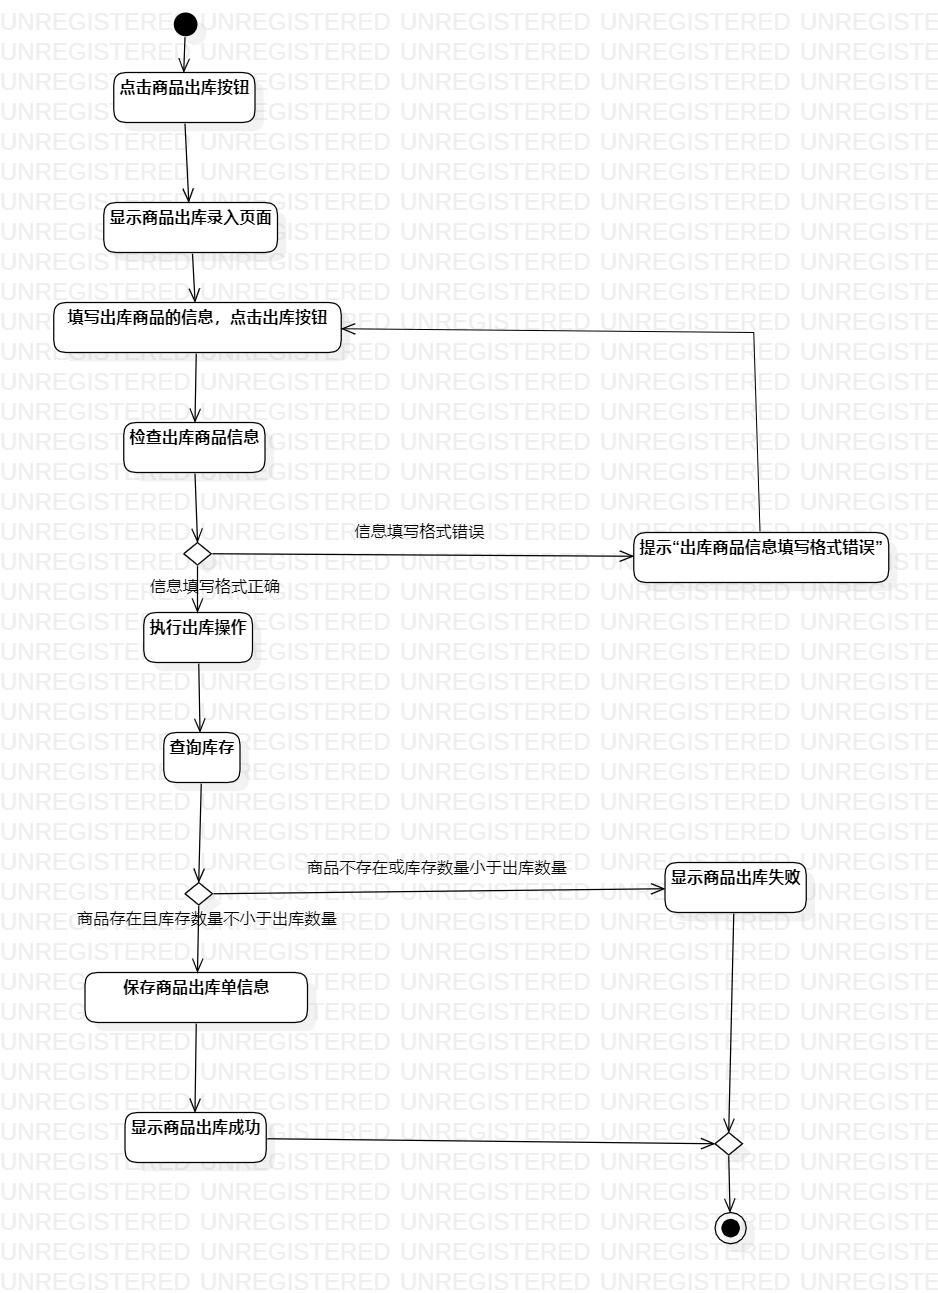
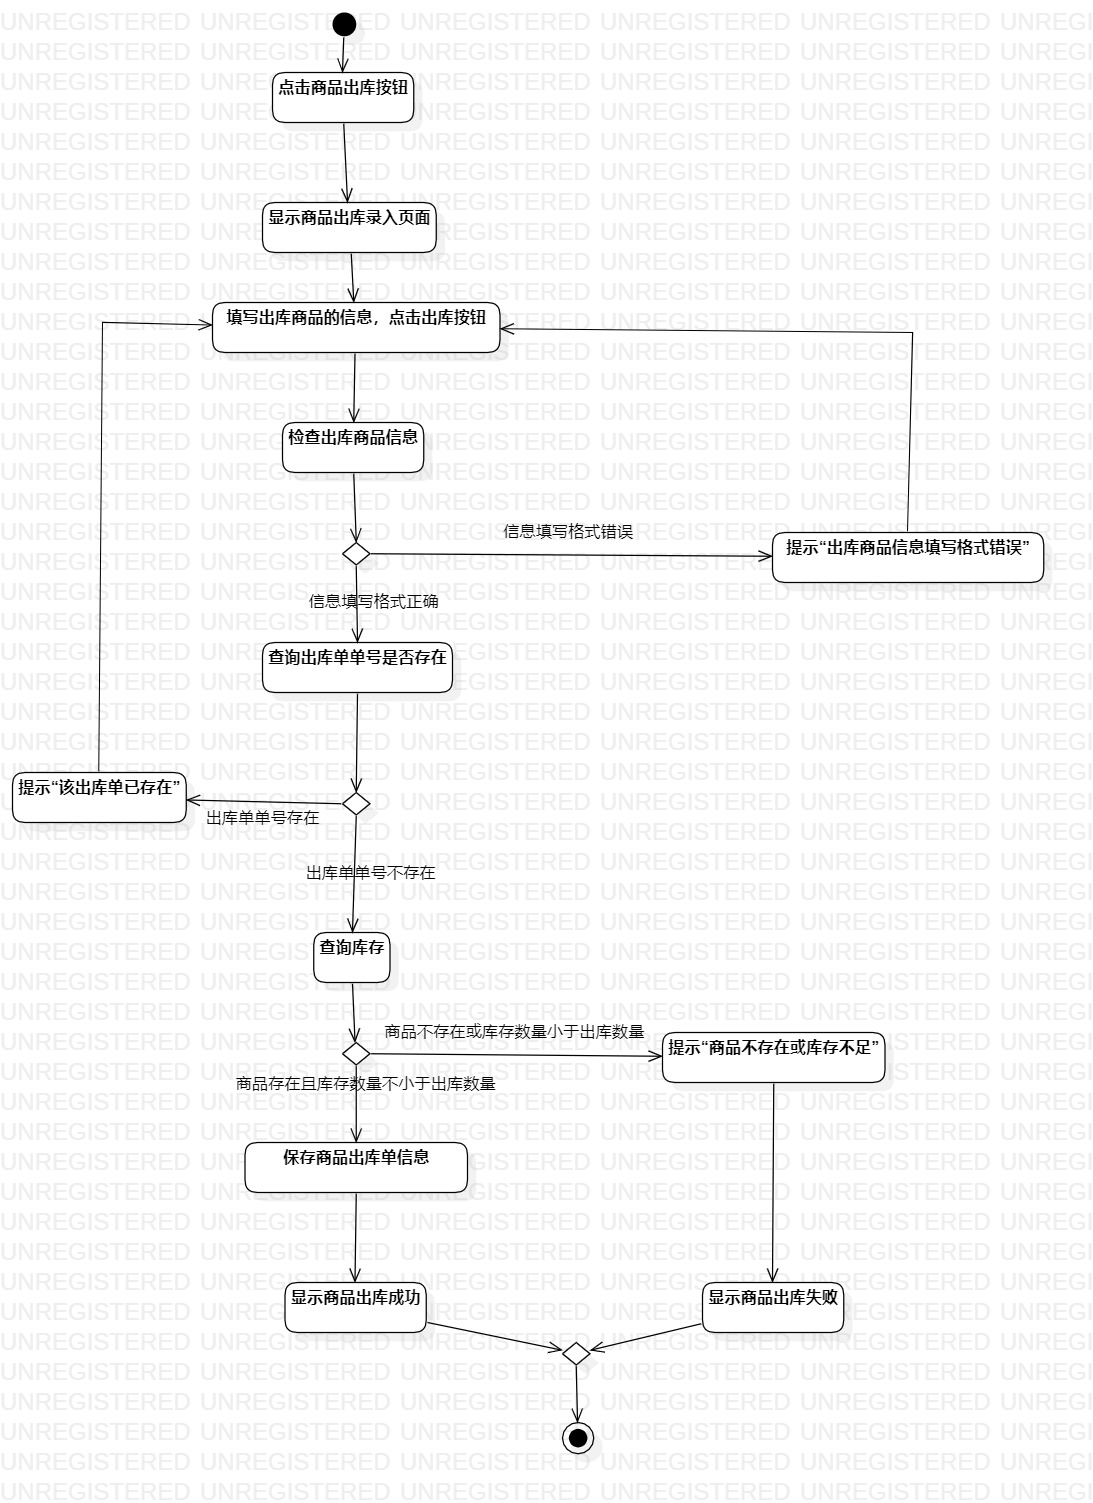
修改活动图和lab2.md

diff --git a/students/1714080902331/lab2.md b/students/1714080902331/lab2.md
@@ -36,10 +36,11 @@
 基本流程  | 1. 小卖部库存管理员点击商品入库按钮；  |*用例执行成功的步骤*    
 ~| 2. 系统显示商品入库录入页面；  |   
 ~| 3. 小卖部库存管理员填写入库商品的信息，点击入库按钮；  |   
-~| 4. 系统检查入库商品信息填写格式正确，执行入库操作；  |
-~| 5. 系统保存商品入库单信息。  |   
+~| 4. 系统检查入库商品信息填写格式正确，查询入库单单号是否存在；  |
+~| 5. 系统查询入库单单号不存在，保存商品入库单信息；  |     
 ~| 6. 系统显示商品入库成功。  | 
 扩展流程  | 4.1 系统检查发现商品入库信息填写格式错误，系统提示“入库商品信息填写格式错误”，返回步骤3。 |*用例执行失败*
+~| 5.1 系统查询入库单单号存在，提示“该入库单已存在”，返回步骤3。 | 
 
 ## 表2：商品出库用例规约 
 
@@ -51,11 +52,13 @@
 基本流程  | 1. 小卖部库存管理员点击商品出库按钮；  |*用例执行成功的步骤*    
 ~| 2. 系统显示商品出库录入页面；  |   
 ~| 3. 小卖部库存管理员填写出库商品的信息，点击出库按钮；  |   
-~| 4. 系统检查出库商品信息填写格式正确，执行出库操作；  |   
-~| 5. 系统查询商品库存信息，发现商品存在且库存数量不小于出库数量，保存商品出库单信息；  |
-~| 6. 系统显示商品出库成功。  |
+~| 4. 系统检查出库商品信息填写格式正确，查询出库单单号是否存在；  |
+~| 5. 系统查询出库单单号不存在，查询库存； |
+~| 6. 系统查询库存发现商品存在且库存数量不小于出库数量，保存商品出库单信息；  |
+~| 7. 系统显示商品出库成功。  |
 扩展流程  | 4.1 系统检查发现商品出库信息填写格式错误，提示“出库商品信息填写格式错误”，返回步骤3。 |*用例执行失败*
-~| 5.1 系统查询商品库存信息，发现商品不存在或库存数量小于出库数量，显示商品出库失败。 |   
+~| 5.1 系统查询入出库单单号存在，提示“该出库单已存在”，返回步骤3 | 
+~| 6.1 系统查询商品库存信息，发现商品不存在或库存数量小于出库数量，提示“商品不存在或库存不足”，显示商品出库失败。 |   
 
 ## 表3：查询库存用例规约 
 
